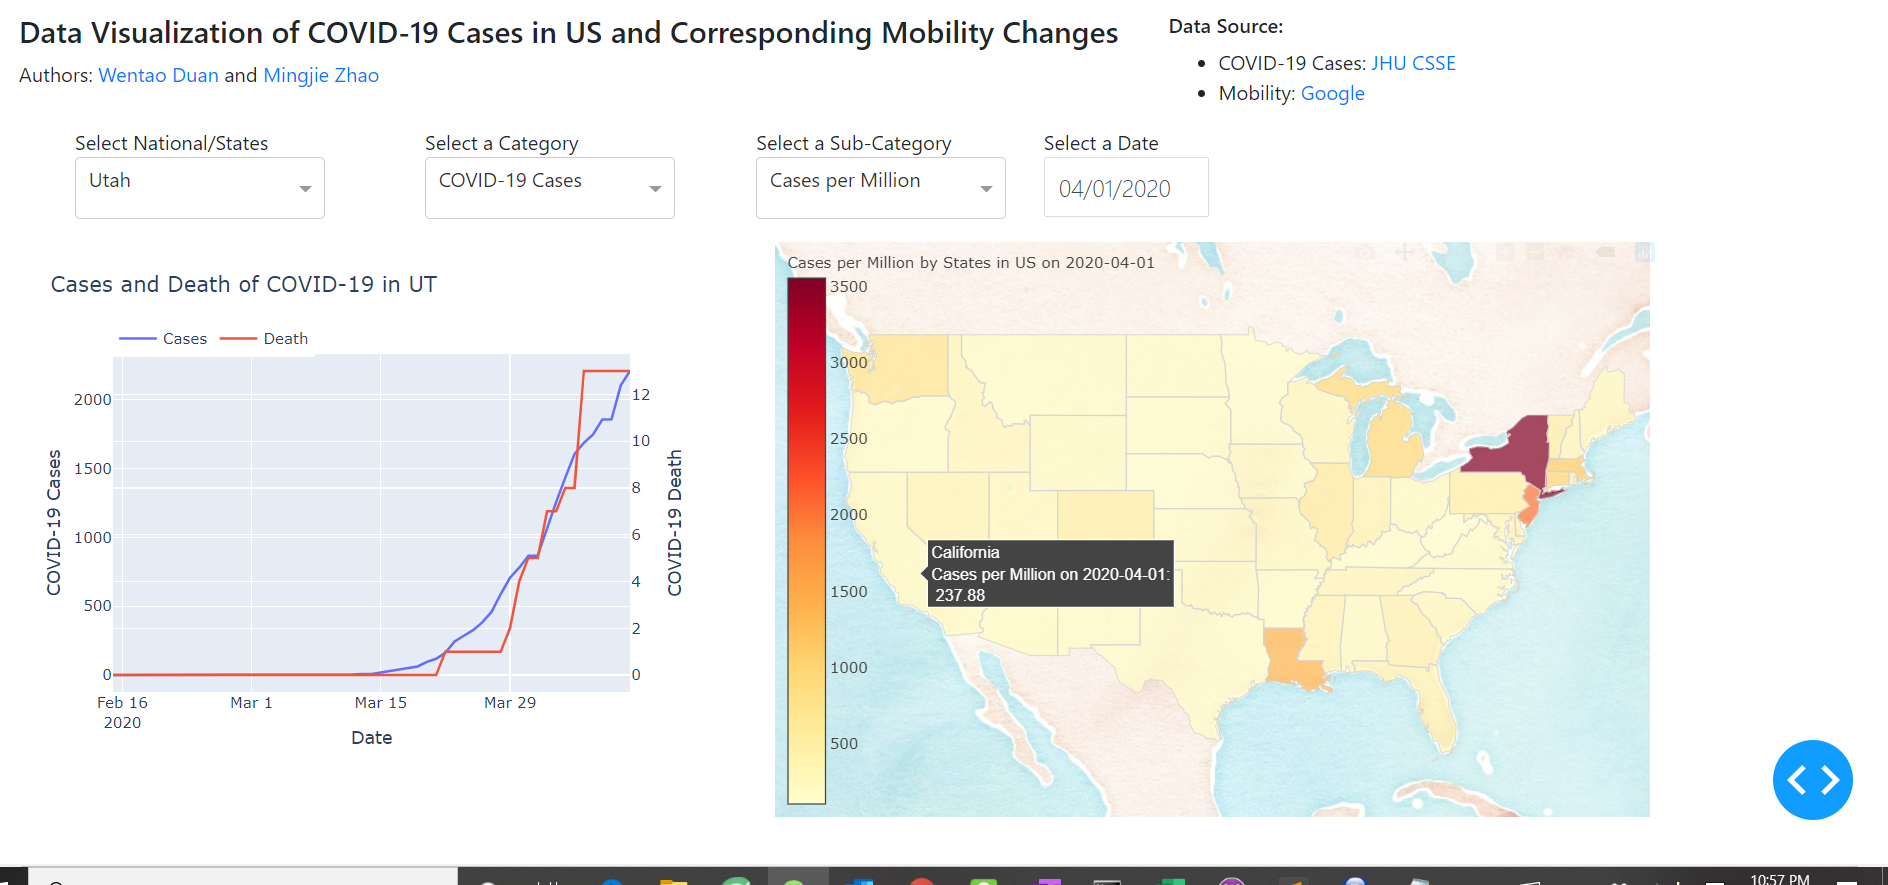
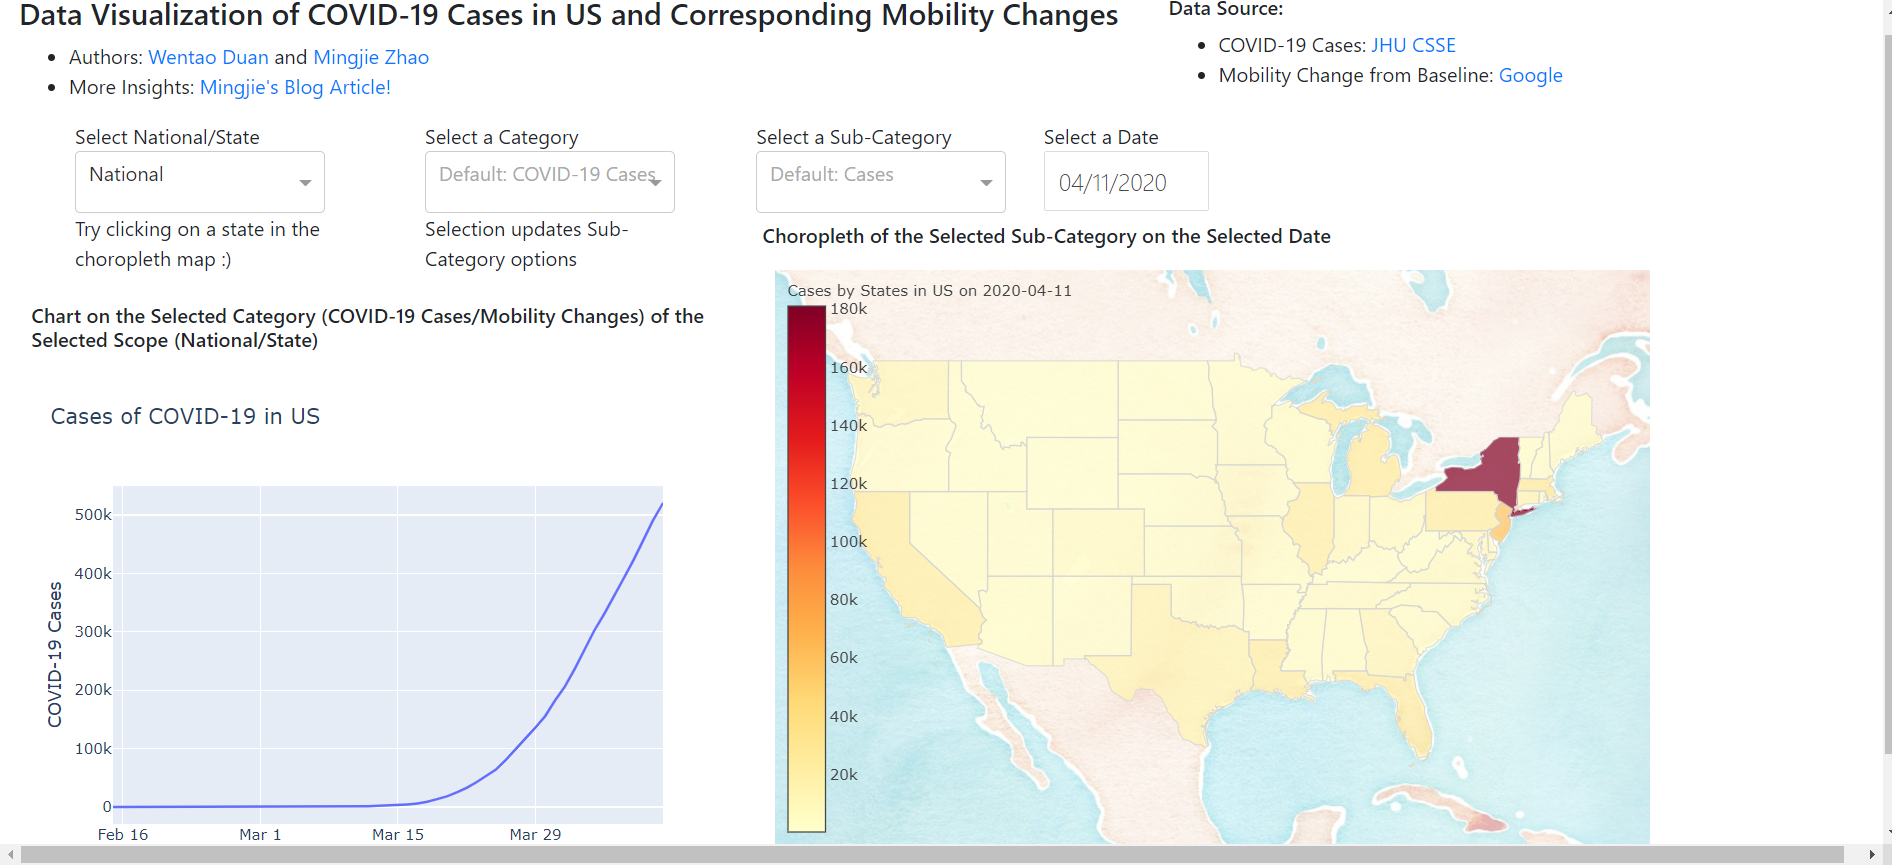
update bolg and pic

diff --git a/_posts/2020-04-22-COVID19-Mobility-Map.md b/_posts/2020-04-22-COVID19-Mobility-Map.md
@@ -7,14 +7,27 @@ comments: true
 ---
 
 ## 1. Introduction
-The COVID-19 pandemic has changed everyone's life. I am especially very upset that my graduation commencement is postponed. While self-isolated as most people, I do feel lucky that I am living in a society that many heroes are fighting with the virus in many ways. Though I cannot be as helpful as our heroes like the doctors and nurses, I did find a way to contribute a little bit--by using my data science skills. Therefore, I plan to work on a series of data science projects regarding to the COVID-19, hopefully I could provide some insights with a perspective of a data scientist.
+The COVID-19 pandemic has changed everyone's life. While self-isolated as most people, I do feel lucky that I am living in a society that many heroes are fighting with the virus in many ways. Though I cannot be as helpful as our heroes like the doctors and nurses, I did find a way to contribute a little bit--by using my data science skills. Therefore, I plan to work on a series of data science projects regarding to the COVID-19, hopefully I could provide some insights with a perspective of a data scientist.
 
-This is the first project in this **COVID-19** series. I collaborate with [Wentao Duan](https://github.com/wduan31) to create an interactive dash app using Python. This app aims to provide visualizations of COVID-19 cases and mobility change during 2020-02-15 to 2020-04-11 in the U.S. The raw data is from JHU CSSE and Google.
+This is the first project in this **COVID-19** series. I collaborate with [Wentao Duan](https://github.com/wduan31) to create [an interactive dash app[(https://covid-19-mobility-map.herokuapp.com/)] using Python. This app aims to provide visualizations of COVID-19 cases and mobility change during 2020-02-15 to 2020-04-11 in the U.S. The raw data is provided by JHU CSSE and Google.
 
 ## 2. App Description
-The app includes 2 main charts: (1) a line chart showing COVID-19 cases or percentage mobility change, and (2) an interactive map to visualize the data. Users could select options from 4 drop-down lists which provides various ways to visualize the data.
+This mobility map is an interactive app which allows users to check how the pandemic change people's mobility in different places such as retail, parks, and residential places. Users could select options from 4 drop-down lists which provides various ways to visualize the data of their choice.
 ![img1](https://github.com/mingjiezhao/mingjiezhao.github.io/blob/master/img/posts_imgs/COVID-19/covid-19-map1.png?raw=true){: .center-block :}
+### Conponents of the app
+The app includes two main conponents: four drop-down lists, and charts area
+#### About the drop-down lists
+(1) Select National/State: 'national' option only applies to the line chart on the left, 'state' option applies to both charts 
+(2) Select a Category: 'COVID-19 Cases' shows the number of confirmed cases and death cases. 'mobility' shows mobility results for 6 different type of places including "retail & recreation", "grocery & pharmacy", "parks", "transit stations", "workplaces" and "residential".
+(3) Select a Sub-Category: choose from the 6 different type of places to get the result on the map (right chart)
+(4) Select a Date: choose from 2020-02-15 to 2020-04-11
 
+#### About the charts area
+Two charts are provided by this app:
+(1) A line chart showing COVID-19 cases or percentage mobility change 
+(2) An interactive map to visualize the data selected from the drop-down lists
+ 
+### About the raw data
 The raw data of COVID-19 cases is provided by JHU CSSE, which include both confirmed cases and death.
 The raw data of percentage changes is from Google who used the same kind of aggregated and anonymized data for popular times of places in Google Maps. Changes for each day are compared to a baseline value for that day of the week, which is the median value for the corresponding day of the week.
 
